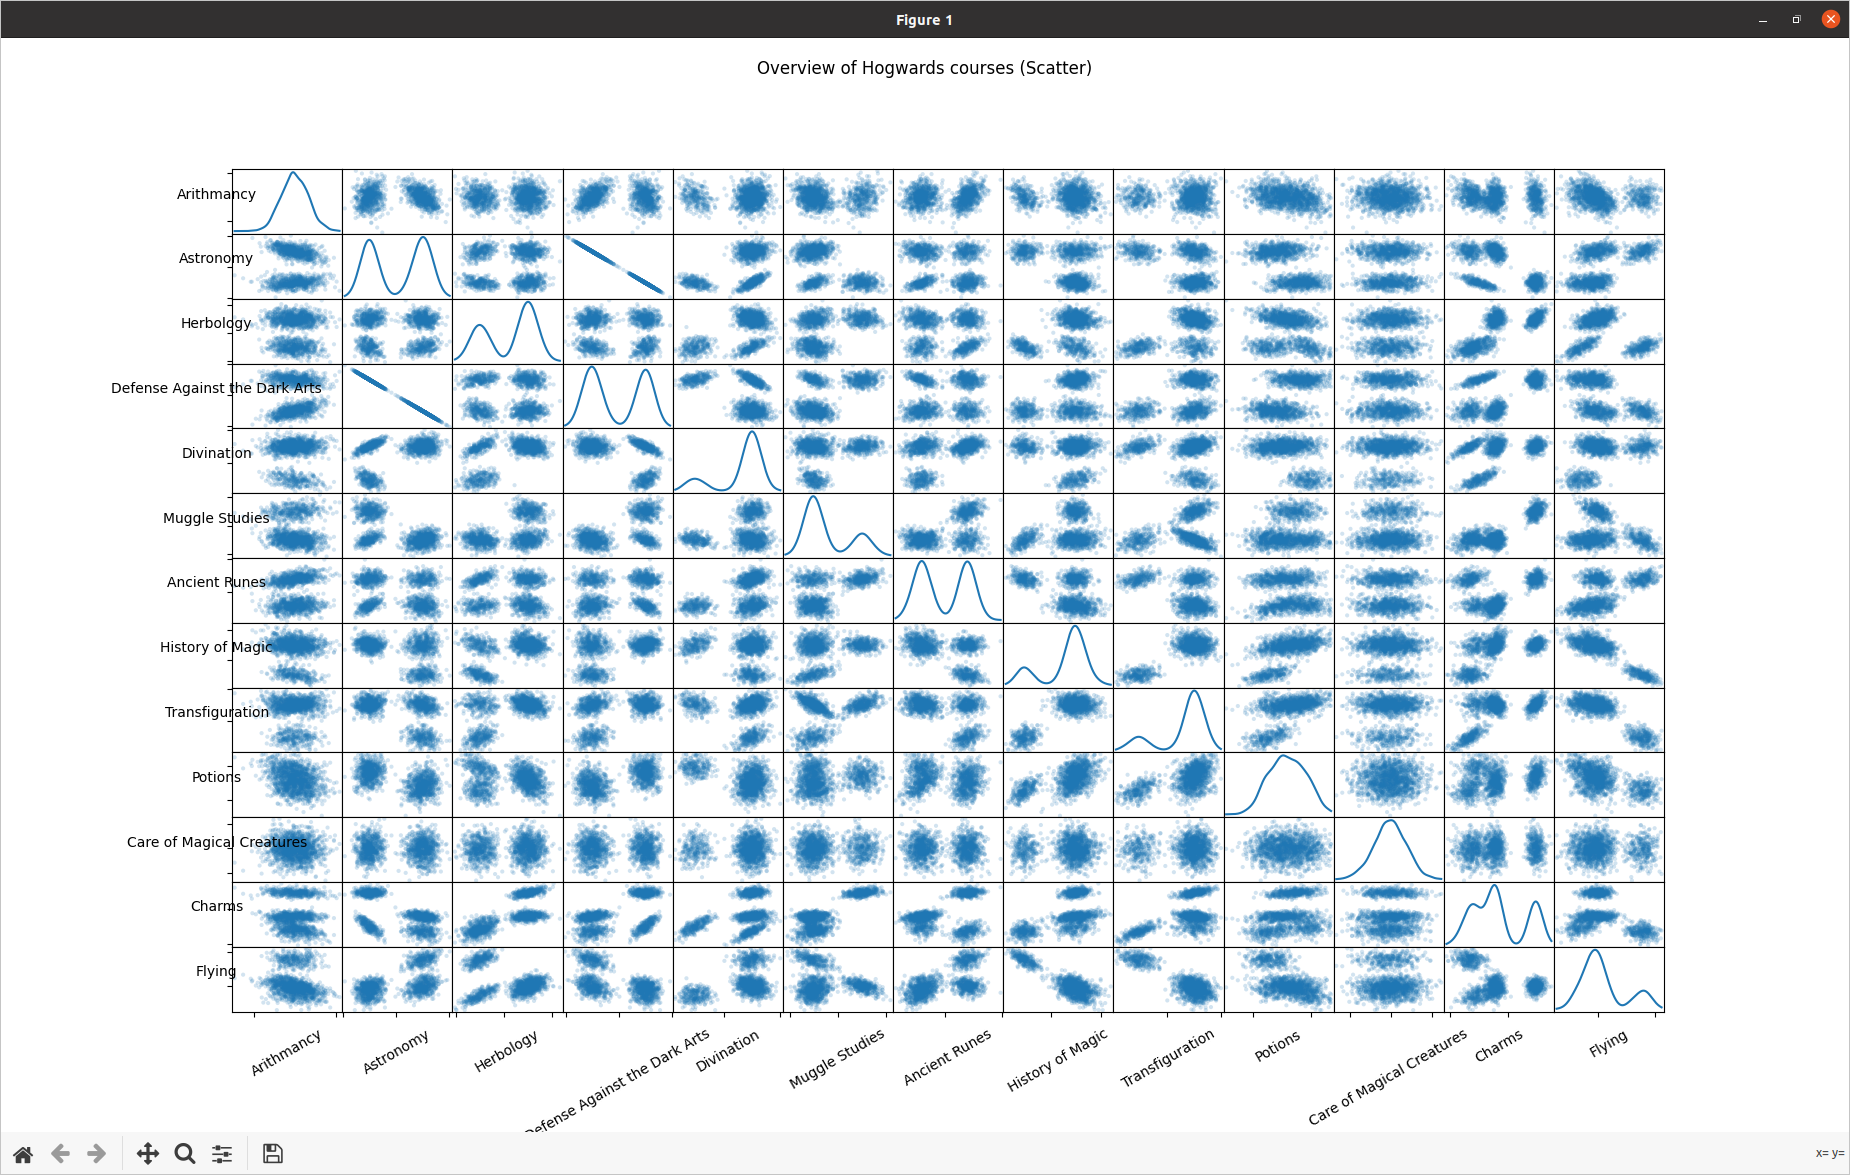
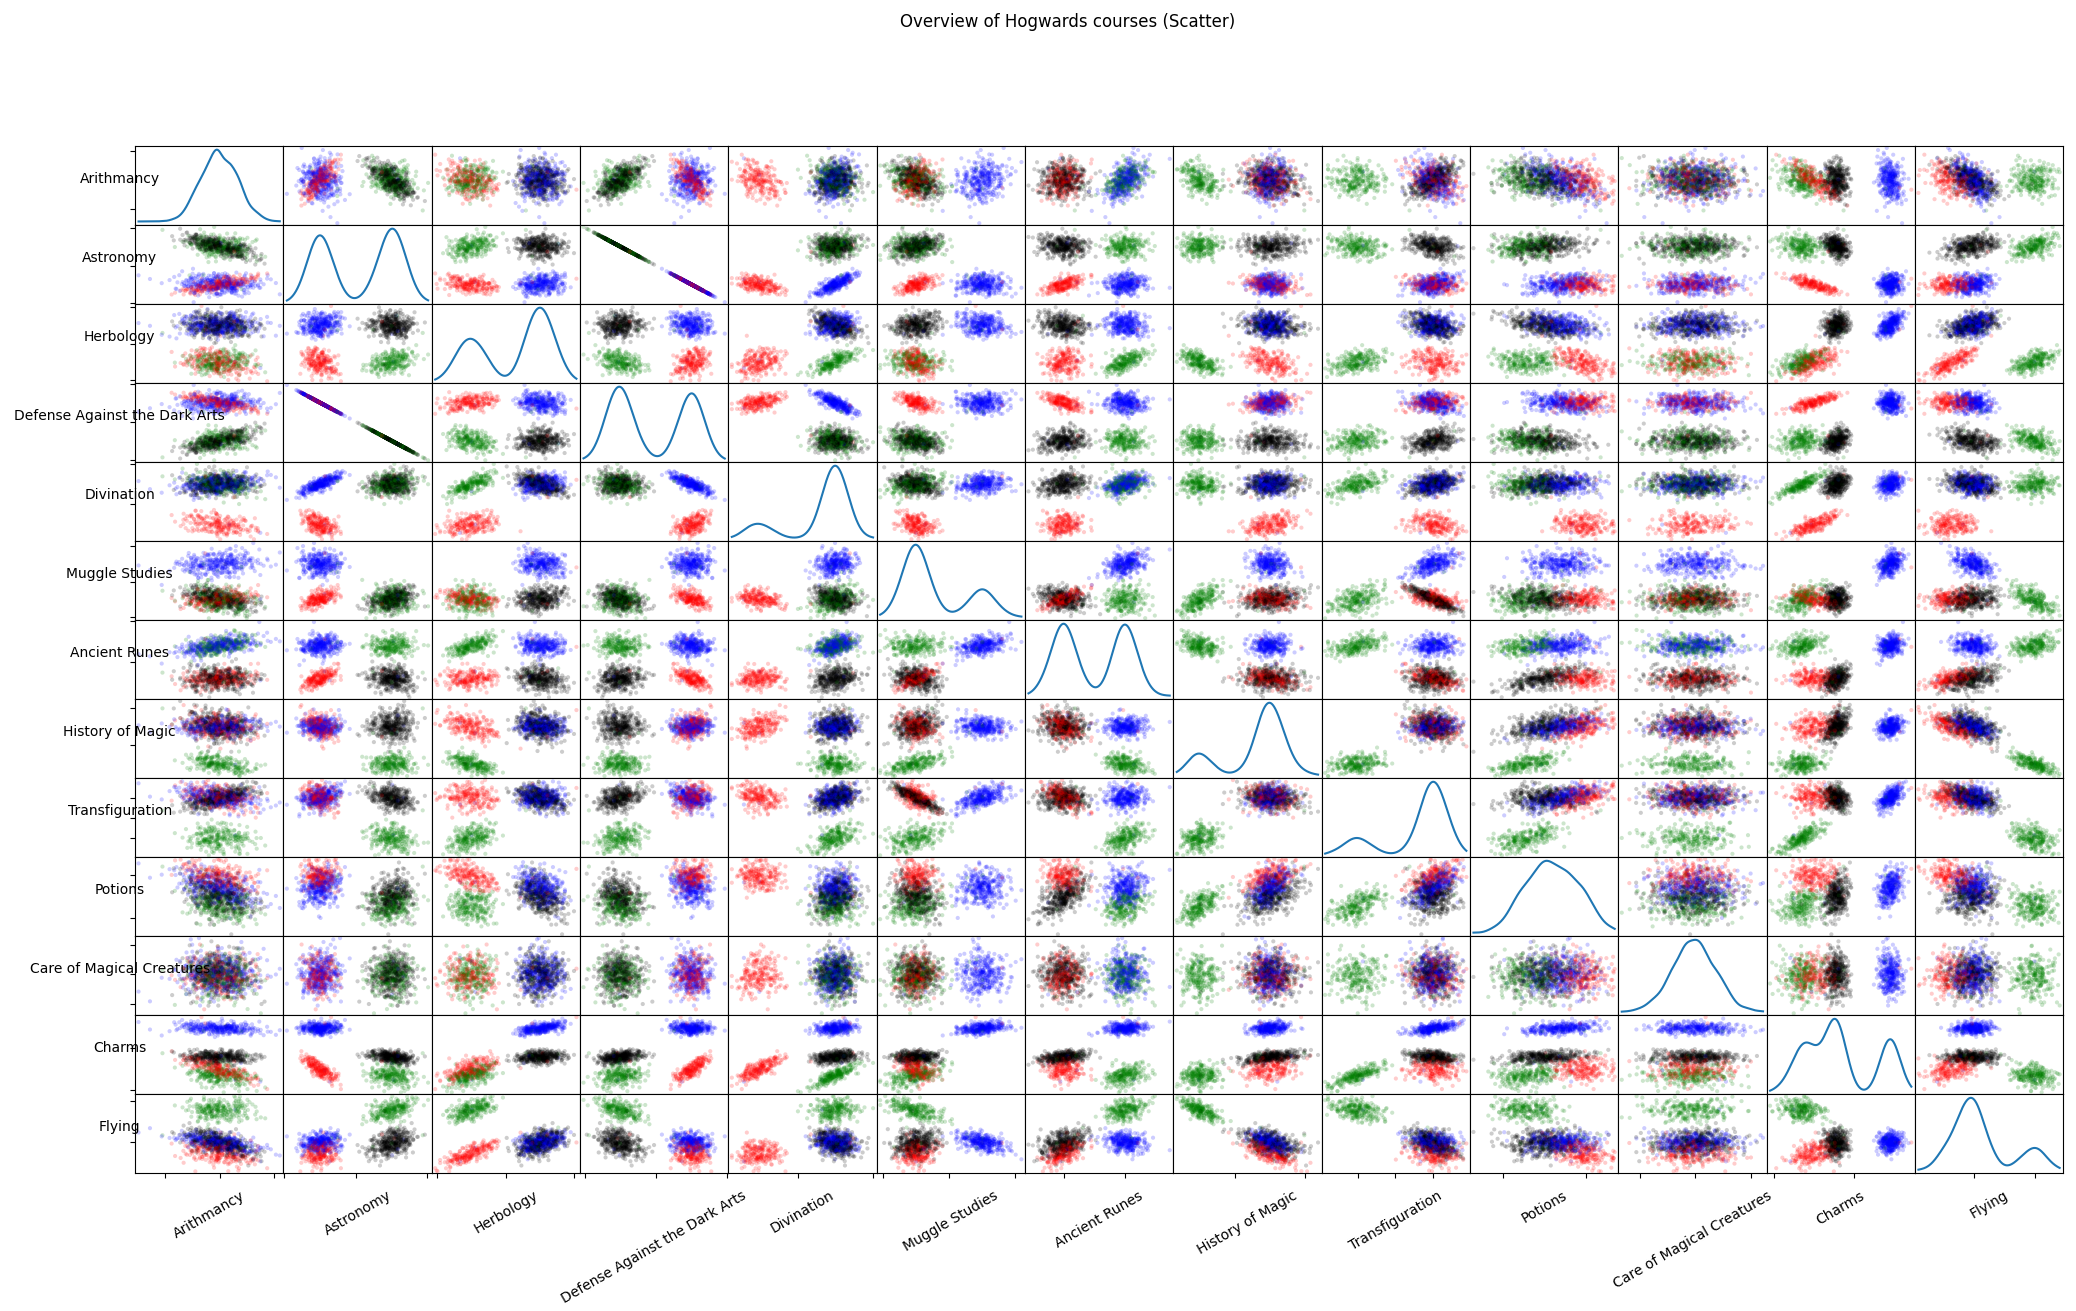
README updated with new scatter picture

diff --git a/README.md b/README.md
@@ -1,8 +1,8 @@
 # Datascience X Logistic Regression (DSLR)
 
-<!-- ```diff
+```diff
 - The project is still ongoing. Daily updates into the contents.
-``` -->
+```
 
 ## 1. Project overview
 
@@ -143,7 +143,7 @@ Histogram plots visualize how values in a function are distributed. Currently, I
 
 #### 5.2.5 Scatter plot
 
-A scatter plot and correlation plot visualizes similar things (at least from my point of view). The visualization view is different that makes the possibility for a different kind of information. Currently, I don't know what kind of, but in any case.
+A scatter plot visualizes cluster areas. In the picture below we see that there are feature pairs which clusterize colours in different areas.
 
 ![Scatterplot](Documentation/Python_Scatterplot.png)
 
